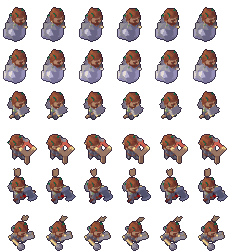
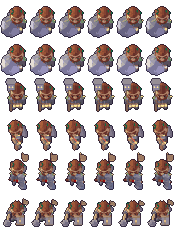
Rank path from the game as it is now: every hero's six looks re-cut from today's sprite sheets (several were rebaked), the ultimates' short lines matching their current effects (Great Arrow on the strongest foe, Glacial Dance's ice shield...); the fireflies behind every card and line of text

diff --git a/js/hero-data.js b/js/hero-data.js
@@ -1,3 +1,3 @@
 /* Built from the game (game/src/lib/game/heroes.js, elements.js) and its sprite sheets: art_src-style crops in img/ranks/<hero>.png,
    one row per look (r1, r2, then the four jobs), six idle frames each. */
-window.NT_HEROES = [{"id":"ryn","name":"Ryn","title":"Ember Scout","el":"fire","sig":{"name":"Kettle Heart","reaction":"Scalding Steam"},"skills":[{"name":"Ignite","desc":"Burning ground: Burning, damage over time."},{"name":"Blast","desc":"A pure blast: much more damage to small foes."}],"jobs":[{"id":"ranger","name":"Ranger","place":"High ground","cls":"Marksman","ult":"Great Arrow","what":"A huge arrow through a line","fx":"Boss x2.5, Burning","alts":["Blast Arrow","Piercing Flame"]},{"id":"bombardier","name":"Bombardier","place":"High ground","cls":"Siege","ult":"Rocket Box","what":"Eight rockets on the foes","fx":"Fragile, knock-back","alts":["Full Salvo","Napalm Rockets"]},{"id":"berserker","name":"Berserker","place":"Road","cls":"Tanker","ult":"Fire Tornado","what":"Tornado down the road","fx":"Knock-up, Burning","alts":["Stunning Tornado","Scorching Tornado"]},{"id":"flamethrower","name":"Flamethrower","place":"Road","cls":"Fighter","ult":"Blazing Blade","what":"Fire sword, 8s","fx":"+60% dmg, Fragile, heal","alts":["Long Blaze","Wide Blaze"]}],"sprite":{"w":54,"h":49,"rows":["r1","r2","ranger","bombardier","berserker","flamethrower"]}},{"id":"mira","name":"Mira","title":"Tide Keeper","el":"water","sig":{"name":"Tidebinder","reaction":"Frost Wall"},"skills":[{"name":"Mend","desc":"Heals the most hurt hero 30%."},{"name":"Soak","desc":"Weak: foes hit 40% softer. No damage."}],"jobs":[{"id":"mystic","name":"Mystic","place":"High ground","cls":"Siege","ult":"Whirlpool","what":"Gathers and holds foes","fx":"Hold 3s, burst","alts":["Tide Lure","Crushing Deep"]},{"id":"corsair","name":"Corsair","place":"High ground","cls":"Marksman","ult":"Magic Rain","what":"Wide rain, team buff","fx":"Soak, magic +20%","alts":["Cold Rain","Deep Rain"]},{"id":"tidecaller","name":"Tide Caller","place":"Road","cls":"Fighter","ult":"Tide Blade","what":"Lifesteal blade, 8s","fx":"+40% dmg, heals","alts":["Shared Tide","Bursting Tide"]},{"id":"guardian","name":"Guardian","place":"Road","cls":"Tanker","ult":"Tidal Wave","what":"Wave down the road","fx":"Push back, Stun","alts":["Spring Wave","Crushing Wave"]}],"sprite":{"w":38,"h":40,"rows":["r1","r2","mystic","corsair","tidecaller","guardian"]}},{"id":"kael","name":"Kael","title":"Storm Adept","el":"lightning","sig":{"name":"Live Wire","reaction":"Conduction"},"skills":[{"name":"Jolt","desc":"A bolt on the strongest foe: big damage, Stun."},{"name":"Shock","desc":"Shock on 3 foes: every hit jumps to 2 more."}],"jobs":[{"id":"gunner","name":"Gunner","place":"High ground","cls":"Marksman","ult":"Bolt Rain","what":"Bolts over an area","fx":"Mini Stun","alts":["Stun Orbs","Shock Field"]},{"id":"stormcaller","name":"Stormcaller","place":"High ground","cls":"Siege","ult":"Storm Totem","what":"Totem zaps, 6s","fx":"Steady damage","alts":["Twin Totems","Overcharge"]},{"id":"arcanist","name":"Arcanist","place":"Road","cls":"Fighter","ult":"Volt Blades","what":"Volt swords, 12s","fx":"+50% dmg, shockwave","alts":["Stunning Blades","Dazing Blades"]},{"id":"duelist","name":"Duelist","place":"Road","cls":"Tanker","ult":"Thunder Hammer","what":"Slam, pull in","fx":"Stun 1.5s","alts":["Aftershock","Long Stun"]}],"sprite":{"w":48,"h":39,"rows":["r1","r2","gunner","stormcaller","arcanist","duelist"]}},{"id":"sora","name":"Sora","title":"Frost Warden","el":"ice","sig":{"name":"Shatterpoint","reaction":"Thermal Shock"},"skills":[{"name":"Frost Ground","desc":"Icy ground: Chilled (slow). No damage."},{"name":"Ice Block","desc":"A block foes must break; it Freezes them."}],"jobs":[{"id":"siege","name":"Siege","place":"High ground","cls":"Siege","ult":"Blizzard","what":"Slowing storm, 5s","fx":"Chill, then Frozen","alts":["Brittle Frost","Moving Blizzard"]},{"id":"frostsniper","name":"Frost Sniper","place":"High ground","cls":"Marksman","ult":"Ice Spike Rain","what":"Spikes over an area","fx":"Chill, then Frozen","alts":["Shatter Shot","Giant Spike"]},{"id":"frostguard","name":"Frostguard","place":"Road","cls":"Tanker","ult":"Ice Wall","what":"Wall across the road","fx":"Blocks, then Frozen","alts":["Spiked Wall","Double Wall"]},{"id":"sentinel","name":"Sentinel","place":"Road","cls":"Fighter","ult":"Glacial Dance","what":"Spinning cuts","fx":"Chill, icy ground","alts":["Wide Dance","Shatter Dance"]}],"sprite":{"w":38,"h":43,"rows":["r1","r2","siege","frostsniper","frostguard","sentinel"]}},{"id":"liora","name":"Liora","title":"Grove Sister","el":"nature","sig":{"name":"Rainroot","reaction":"Bloom"},"skills":[{"name":"Venom","desc":"Poison: damage over time, heals cut."},{"name":"Thorn Snare","desc":"Rooted: they stop, still hit up close."}],"jobs":[{"id":"druid","name":"Druid","place":"High ground","cls":"Siege","ult":"Maneater","what":"A flower eats foes","fx":"Swallows small foes","alts":["Twin Maneaters","Mending Bloom"]},{"id":"archer","name":"Archer","place":"High ground","cls":"Marksman","ult":"Spore Arrows","what":"Spores burst to poison","fx":"Poison, anti-heal","alts":["Plague Spores","Boss Bane"]},{"id":"treant","name":"Treant","place":"Road","cls":"Tanker","ult":"Thorn Forest","what":"Roots an area","fx":"Rooted, thorns","alts":["Deep Roots","Healing Grove"]},{"id":"faecaller","name":"Fae Caller","place":"Road","cls":"Fighter","ult":"Harvest","what":"Wide cut, heals","fx":"Execute under 15%","alts":["Reaper","Thorn Harvest"]}],"sprite":{"w":28,"h":40,"rows":["r1","r2","druid","archer","treant","faecaller"]}},{"id":"bram","name":"Bram","title":"Stone Shield","el":"stone","sig":{"name":"Landslide","reaction":"Avalanche"},"skills":[{"name":"Upheaval","desc":"Long knock-up, then Stun."},{"name":"Stone Guard","desc":"A 30% shield on the nearest hero."}],"jobs":[{"id":"stonemortar","name":"Mortar","place":"High ground","cls":"Siege","ult":"Stone Golem","what":"Golem blocks the road","fx":"Taunt, block","alts":["Bursting Golem","Twin Golems"]},{"id":"geomancer","name":"Geomancer","place":"High ground","cls":"Marksman","ult":"Rock Rain","what":"Rocks over an area","fx":"Knock-up, Fragile","alts":["Rolling Boulder","Deep Cracks"]},{"id":"knight","name":"Knight","place":"Road","cls":"Fighter","ult":"Earthquake","what":"Crack down the road","fx":"Stun, knock-up","alts":["Aftershocks","Long Fault"]},{"id":"golem","name":"Golem","place":"Road","cls":"Tanker","ult":"Bulwark","what":"Taunt and tank, 6s","fx":"-70% dmg, reflect","alts":["Shield Wall","Earth Burst"]}],"sprite":{"w":38,"h":42,"rows":["r1","r2","stonemortar","geomancer","knight","golem"]}}];
+window.NT_HEROES = [{"id":"ryn","name":"Ryn","title":"Ember Scout","el":"fire","sig":{"name":"Kettle Heart","reaction":"Scalding Steam"},"skills":[{"name":"Ignite","desc":"Burning ground: Burning, damage over time."},{"name":"Blast","desc":"A pure blast: much more damage to small foes."}],"jobs":[{"id":"ranger","name":"Ranger","place":"High ground","cls":"Marksman","ult":"Great Arrow","what":"A huge arrow on the strongest foe","fx":"Big damage, Burning","alts":["Blast Arrow","Piercing Flame"]},{"id":"bombardier","name":"Bombardier","place":"High ground","cls":"Siege","ult":"Rocket Box","what":"Eight rockets on the foes","fx":"Fragile, x1.5 small foes, knock-back","alts":["Full Salvo","Napalm Rockets"]},{"id":"berserker","name":"Berserker","place":"Road","cls":"Tanker","ult":"Fire Tornado","what":"Tornado down one road","fx":"Long knock-up","alts":["Stunning Tornado","Scorching Tornado"]},{"id":"flamethrower","name":"Flamethrower","place":"Road","cls":"Fighter","ult":"Blazing Blade","what":"Fire sword, 8s","fx":"+60% dmg, Fragile, heal 4%/s","alts":["Long Blaze","Wide Blaze"]}],"sprite":{"w":31,"h":47,"rows":["r1","r2","ranger","bombardier","berserker","flamethrower"]}},{"id":"mira","name":"Mira","title":"Tide Keeper","el":"water","sig":{"name":"Tidebinder","reaction":"Frost Wall"},"skills":[{"name":"Mend","desc":"Heals the most hurt hero 30%."},{"name":"Soak","desc":"Weak: foes hit 40% softer. No damage."}],"jobs":[{"id":"mystic","name":"Mystic","place":"High ground","cls":"Siege","ult":"Whirlpool","what":"Holds and gathers foes","fx":"Weak, no damage","alts":["Tide Lure","Crushing Deep"]},{"id":"corsair","name":"Corsair","place":"High ground","cls":"Marksman","ult":"Magic Rain","what":"Wide rain, team buff","fx":"Soak, magic +20%","alts":["Cold Rain","Deep Rain"]},{"id":"tidecaller","name":"Tide Caller","place":"Road","cls":"Fighter","ult":"Tide Blade","what":"Lifesteal blade, 8s","fx":"60% lifesteal, heals an ally","alts":["Shared Tide","Bursting Tide"]},{"id":"guardian","name":"Guardian","place":"Road","cls":"Tanker","ult":"Tidal Wave","what":"Wave down the road","fx":"Push back, Stun","alts":["Spring Wave","Crushing Wave"]}],"sprite":{"w":36,"h":35,"rows":["r1","r2","mystic","corsair","tidecaller","guardian"]}},{"id":"kael","name":"Kael","title":"Storm Adept","el":"lightning","sig":{"name":"Live Wire","reaction":"Conduction"},"skills":[{"name":"Jolt","desc":"A bolt on the strongest foe: big damage, Stun."},{"name":"Shock","desc":"Shock on 3 foes: every hit jumps to 2 more."}],"jobs":[{"id":"gunner","name":"Gunner","place":"High ground","cls":"Marksman","ult":"Bolt Rain","what":"Bolts on the strongest foe","fx":"Big damage, mini Stun","alts":["Stun Orbs","Shock Field"]},{"id":"stormcaller","name":"Stormcaller","place":"High ground","cls":"Siege","ult":"Storm Totem","what":"Totem on the road, 6s","fx":"Shocks 3 foes","alts":["Twin Totems","Overcharge"]},{"id":"arcanist","name":"Arcanist","place":"Road","cls":"Fighter","ult":"Volt Blades","what":"Volt swords, 12s","fx":"+50% dmg, every hit Shocks","alts":["Stunning Blades","Dazing Blades"]},{"id":"duelist","name":"Duelist","place":"Road","cls":"Tanker","ult":"Thunder Hammer","what":"Slam, pull in","fx":"Stuns the 3 strongest","alts":["Aftershock","Long Stun"]}],"sprite":{"w":30,"h":41,"rows":["r1","r2","gunner","stormcaller","arcanist","duelist"]}},{"id":"sora","name":"Sora","title":"Frost Warden","el":"ice","sig":{"name":"Shatterpoint","reaction":"Thermal Shock"},"skills":[{"name":"Frost Ground","desc":"Icy ground: Chilled (slow). No damage."},{"name":"Ice Block","desc":"A block foes must break; it Freezes them."}],"jobs":[{"id":"siege","name":"Siege","place":"High ground","cls":"Siege","ult":"Blizzard","what":"Slowing storm","fx":"Chill, then Frozen 3s","alts":["Brittle Frost","Moving Blizzard"]},{"id":"frostsniper","name":"Frost Sniper","place":"High ground","cls":"Marksman","ult":"Ice Spike Rain","what":"Spikes on the strongest foe","fx":"The third one Freezes","alts":["Shatter Shot","Giant Spike"]},{"id":"frostguard","name":"Frostguard","place":"Road","cls":"Tanker","ult":"Ice Wall","what":"Wall across the road","fx":"Blocks, then Frozen","alts":["Spiked Wall","Double Wall"]},{"id":"sentinel","name":"Sentinel","place":"Road","cls":"Fighter","ult":"Glacial Dance","what":"Spin with an ice shield","fx":"20% shield, Chill","alts":["Wide Dance","Shatter Dance"]}],"sprite":{"w":32,"h":36,"rows":["r1","r2","siege","frostsniper","frostguard","sentinel"]}},{"id":"liora","name":"Liora","title":"Grove Sister","el":"nature","sig":{"name":"Rainroot","reaction":"Bloom"},"skills":[{"name":"Venom","desc":"Poison: damage over time, heals cut."},{"name":"Thorn Snare","desc":"Rooted: they stop, still hit up close."}],"jobs":[{"id":"druid","name":"Druid","place":"High ground","cls":"Siege","ult":"Maneater","what":"A flower eats foes","fx":"Swallows small foes, bites bosses","alts":["Twin Maneaters","Mending Bloom"]},{"id":"archer","name":"Archer","place":"High ground","cls":"Marksman","ult":"Spore Arrows","what":"Spores burst to poison","fx":"Poison, anti-heal","alts":["Plague Spores","Boss Bane"]},{"id":"treant","name":"Treant","place":"Road","cls":"Tanker","ult":"Thorn Forest","what":"Roots an area","fx":"Rooted, thorns","alts":["Deep Roots","Healing Grove"]},{"id":"faecaller","name":"Fae Caller","place":"Road","cls":"Fighter","ult":"Harvest","what":"Wide cut, heals","fx":"Execute under 15%","alts":["Reaper","Thorn Harvest"]}],"sprite":{"w":32,"h":32,"rows":["r1","r2","druid","archer","treant","faecaller"]}},{"id":"bram","name":"Bram","title":"Stone Shield","el":"stone","sig":{"name":"Landslide","reaction":"Avalanche"},"skills":[{"name":"Upheaval","desc":"Long knock-up, then Stun."},{"name":"Stone Guard","desc":"A 30% shield on the nearest hero."}],"jobs":[{"id":"stonemortar","name":"Mortar","place":"High ground","cls":"Siege","ult":"Stone Golem","what":"Golem blocks the road, 8s","fx":"Taunt, block","alts":["Bursting Golem","Twin Golems"]},{"id":"geomancer","name":"Geomancer","place":"High ground","cls":"Marksman","ult":"Rock Rain","what":"Rocks over an area","fx":"Knock-up, Fragile","alts":["Rolling Boulder","Deep Cracks"]},{"id":"knight","name":"Knight","place":"Road","cls":"Fighter","ult":"Earthquake","what":"Crack down the road","fx":"Stun, knock-up","alts":["Aftershocks","Long Fault"]},{"id":"golem","name":"Golem","place":"Road","cls":"Tanker","ult":"Bulwark","what":"Taunt and tank, 6s","fx":"-70% dmg, reflect","alts":["Shield Wall","Earth Burst"]}],"sprite":{"w":29,"h":38,"rows":["r1","r2","stonemortar","geomancer","knight","golem"]}}];

diff --git a/css/site.css b/css/site.css
@@ -372,7 +372,8 @@ section::before{content:"";position:absolute;inset:0;z-index:-1;background:var(-
 .edges b{color:var(--c);font-weight:700}
 @media (max-width:480px){.edges{grid-template-columns:1fr}}
 /* the fireflies' layer */
-.flies{position:fixed;inset:0;z-index:5;pointer-events:none;image-rendering:pixelated;width:100%;height:100%}
+/* (behind every card and line of text: only a background, user 26 Nov 2026) */
+.flies{position:fixed;inset:0;z-index:-1;pointer-events:none;image-rendering:pixelated;width:100%;height:100%}
 /* the title's letters bob, one after another (a pixel game's title screen) */
 .title .name .ch{display:inline-block;animation:bob 2.4s steps(4) infinite;animation-delay:calc(var(--i) * .12s)}
 @keyframes bob{0%,100%{transform:translateY(0)}50%{transform:translateY(-4px)}}

diff --git a/index.html b/index.html
@@ -25,7 +25,7 @@
 <link rel="apple-touch-icon" href="apple-touch-icon.png">
 <link rel="manifest" href="site.webmanifest">
 <link rel="preload" href="fonts/Silkscreen-Regular.ttf" as="font" type="font/ttf" crossorigin>
-<link rel="stylesheet" href="css/site.css?v=202611261">
+<link rel="stylesheet" href="css/site.css?v=202611262">
 <script type="application/ld+json">
 {
  "@context": "https://schema.org",
@@ -464,8 +464,8 @@
 })();
 </script>
 
-<script src="js/hero-data.js?v=202611144" defer></script>
+<script src="js/hero-data.js?v=202611262" defer></script>
 <script src="js/heroes.js?v=202611144" defer></script>
-<script src="js/fireflies.js?v=202611261" defer></script>
+<script src="js/fireflies.js?v=202611262" defer></script>
 </body>
 </html>
